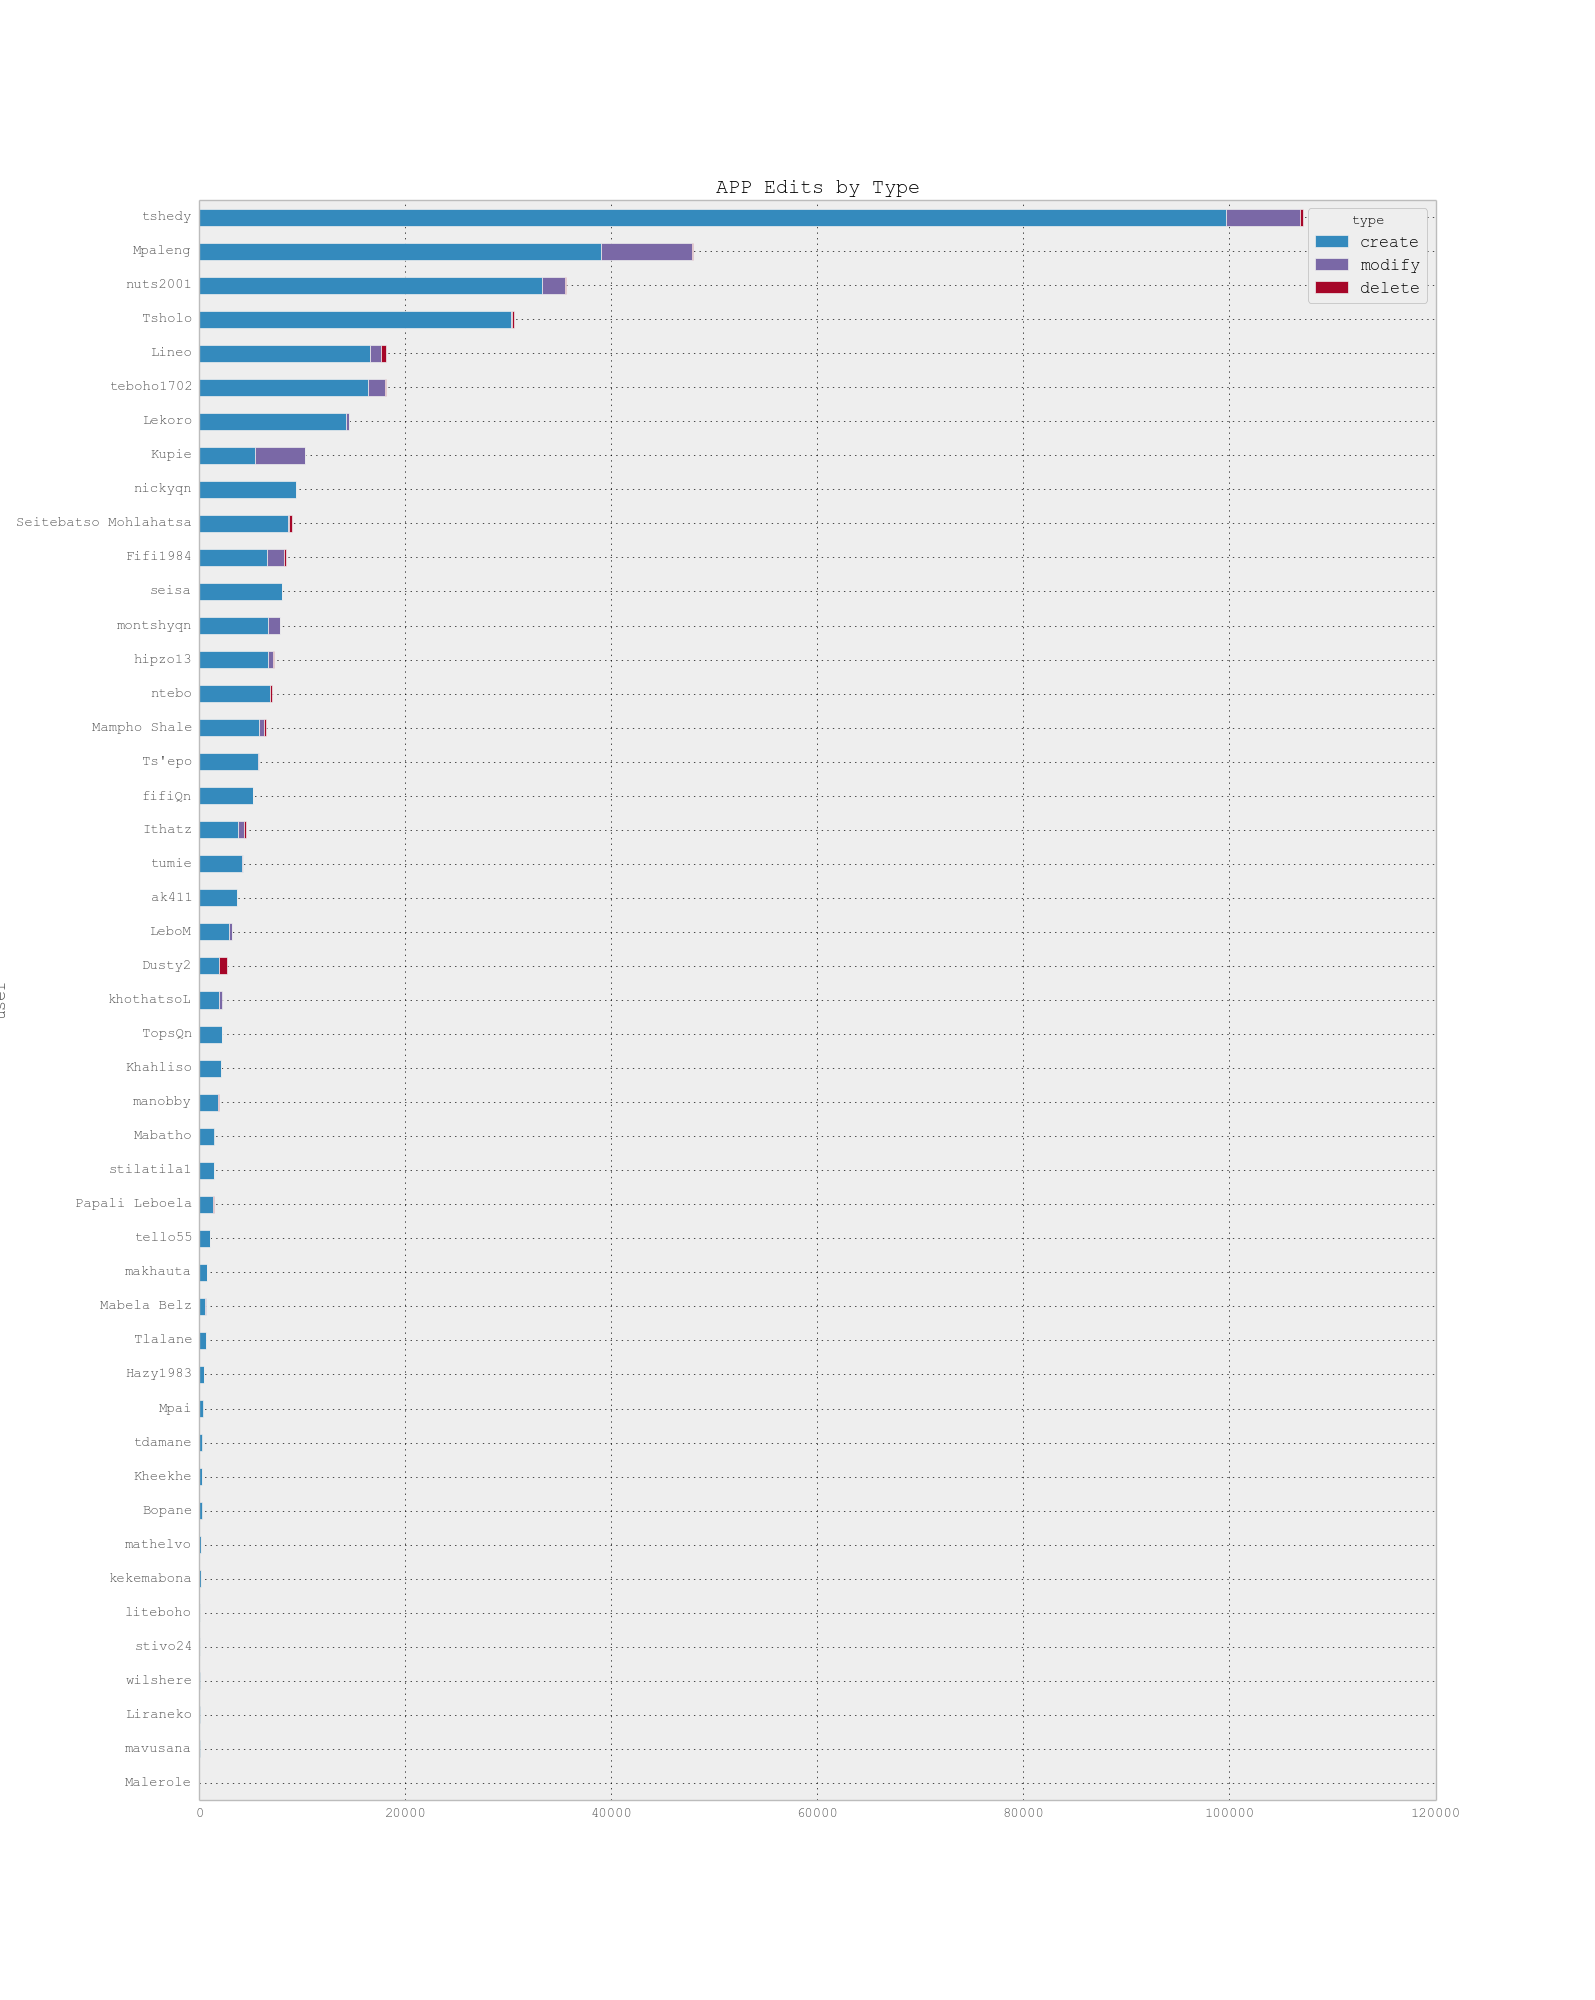
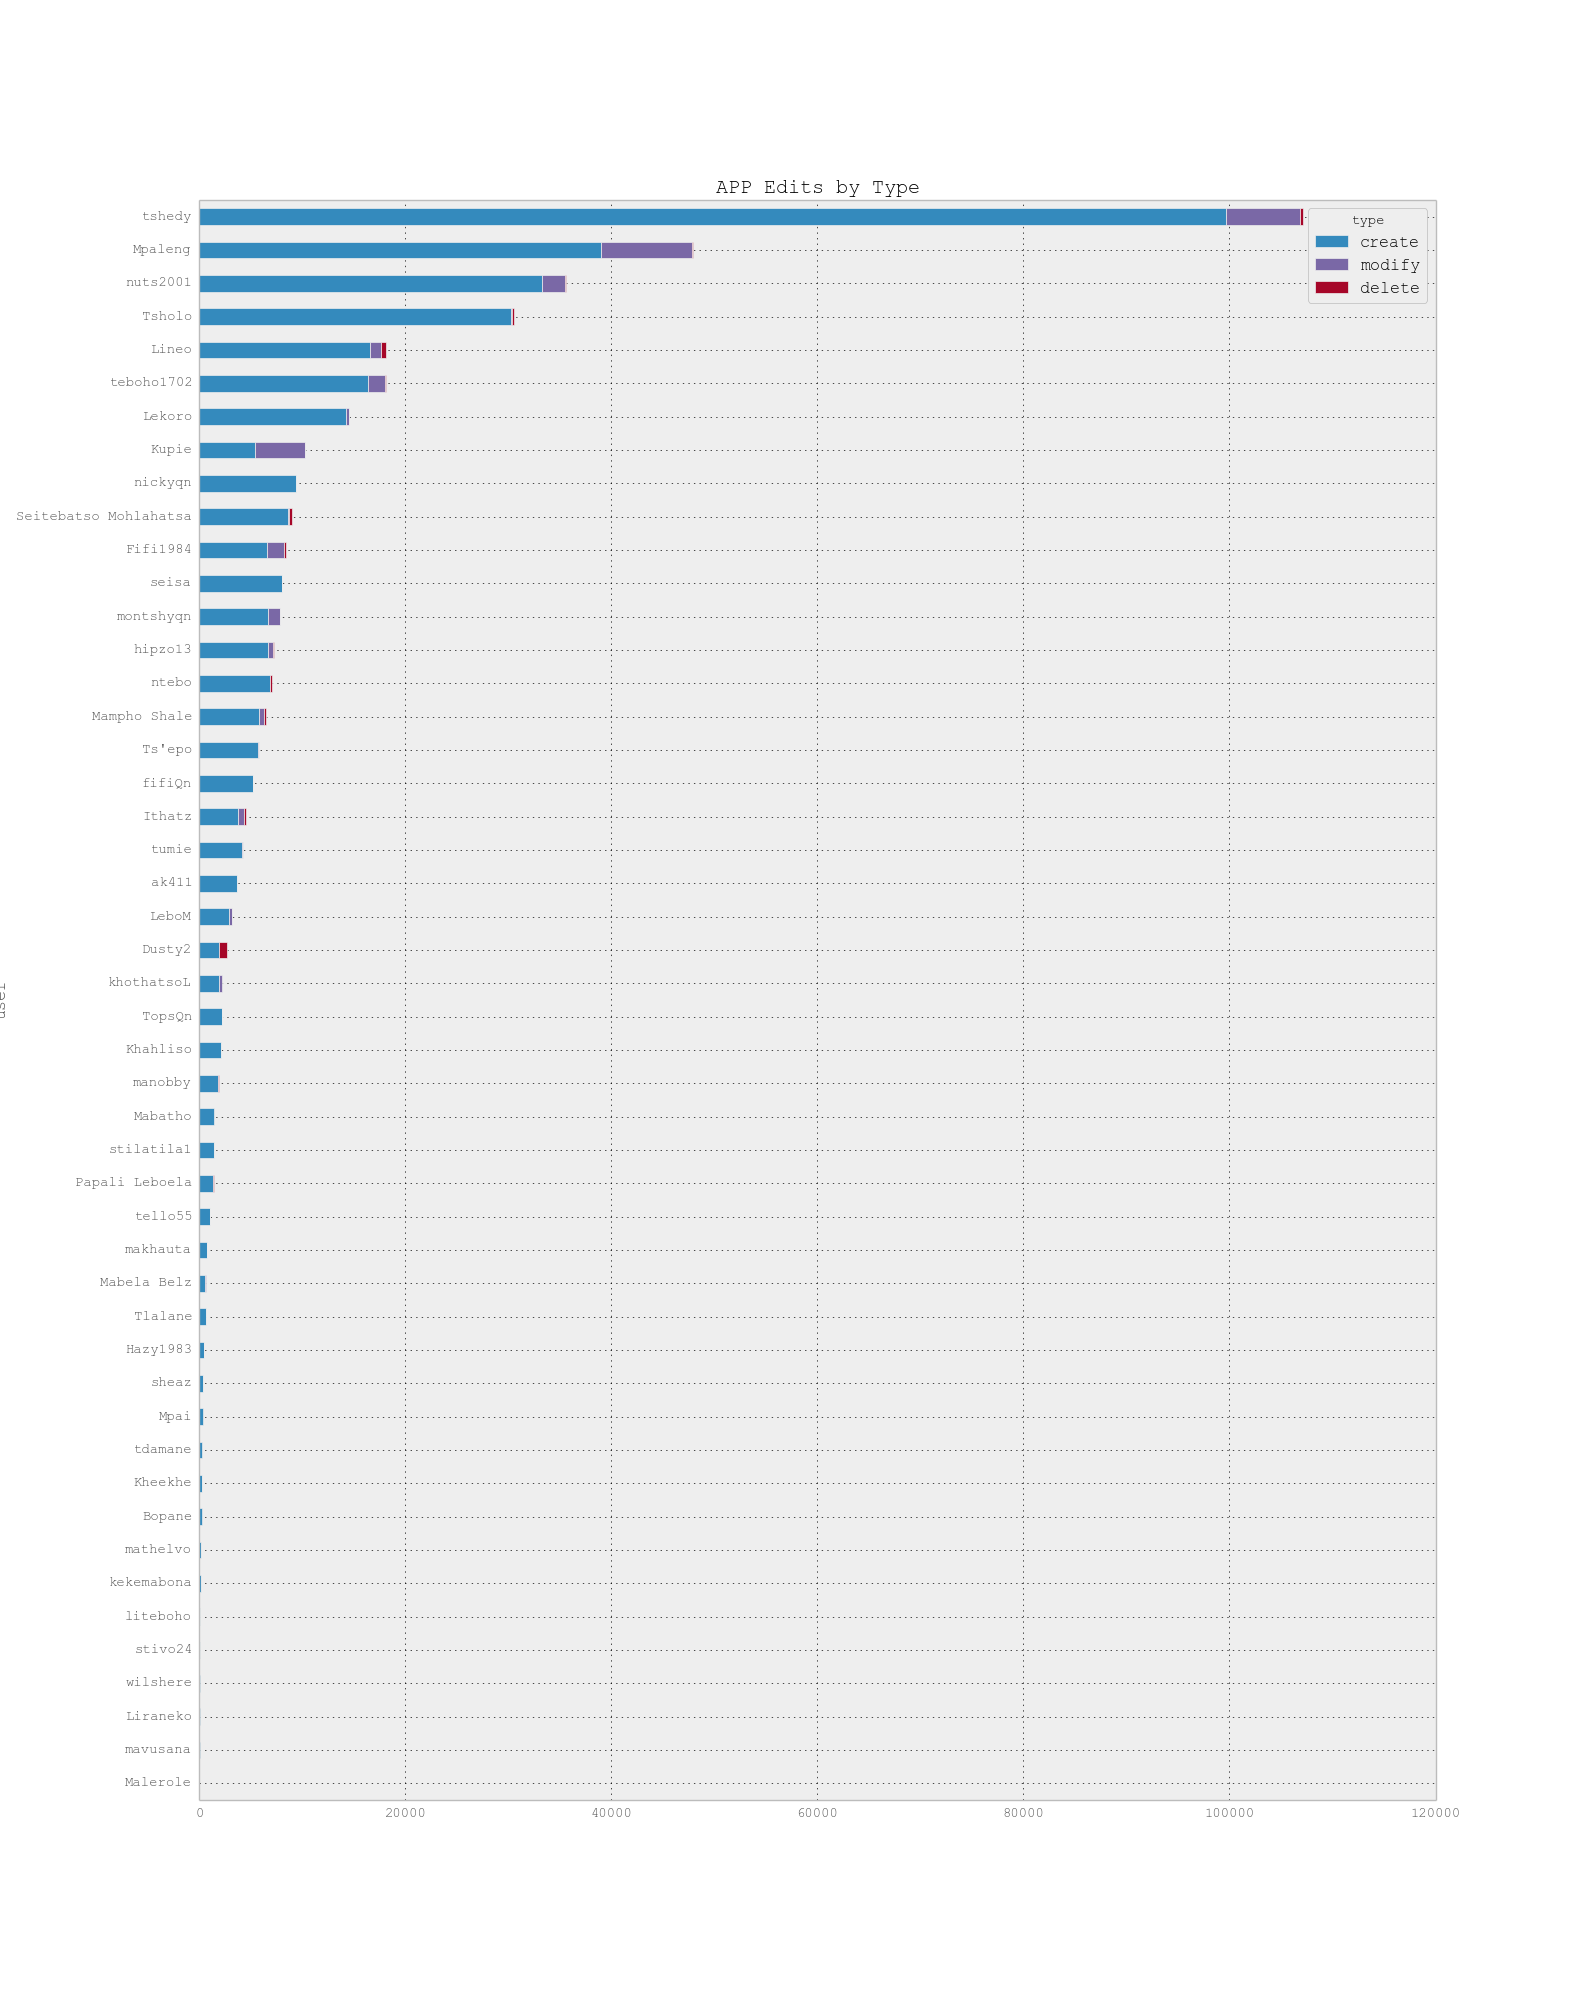
update stats

Changed region(s): [[0.0614, 0.124, 0.3379, 0.868]]

diff --git a/index.html b/index.html
@@ -348,6 +348,14 @@
     </tr>
     <tr>
       <th>35</th>
+      <td>sheaz</td>
+      <td>397</td>
+      <td>0</td>
+      <td>1</td>
+      <td>398</td>
+    </tr>
+    <tr>
+      <th>36</th>
       <td>Mpai</td>
       <td>349</td>
       <td>0</td>
@@ -355,7 +363,7 @@
       <td>349</td>
     </tr>
     <tr>
-      <th>36</th>
+      <th>37</th>
       <td>tdamane</td>
       <td>301</td>
       <td>0</td>
@@ -363,7 +371,7 @@
       <td>301</td>
     </tr>
     <tr>
-      <th>37</th>
+      <th>38</th>
       <td>Kheekhe</td>
       <td>290</td>
       <td>3</td>
@@ -371,7 +379,7 @@
       <td>293</td>
     </tr>
     <tr>
-      <th>38</th>
+      <th>39</th>
       <td>Bopane</td>
       <td>287</td>
       <td>0</td>
@@ -379,7 +387,7 @@
       <td>287</td>
     </tr>
     <tr>
-      <th>39</th>
+      <th>40</th>
       <td>mathelvo</td>
       <td>181</td>
       <td>0</td>
@@ -387,7 +395,7 @@
       <td>186</td>
     </tr>
     <tr>
-      <th>40</th>
+      <th>41</th>
       <td>kekemabona</td>
       <td>171</td>
       <td>0</td>
@@ -395,7 +403,7 @@
       <td>182</td>
     </tr>
     <tr>
-      <th>41</th>
+      <th>42</th>
       <td>liteboho</td>
       <td>95</td>
       <td>5</td>
@@ -403,7 +411,7 @@
       <td>100</td>
     </tr>
     <tr>
-      <th>42</th>
+      <th>43</th>
       <td>stivo24</td>
       <td>74</td>
       <td>0</td>
@@ -411,7 +419,7 @@
       <td>75</td>
     </tr>
     <tr>
-      <th>43</th>
+      <th>44</th>
       <td>wilshere</td>
       <td>73</td>
       <td>0</td>
@@ -419,7 +427,7 @@
       <td>73</td>
     </tr>
     <tr>
-      <th>44</th>
+      <th>45</th>
       <td>Liraneko</td>
       <td>38</td>
       <td>0</td>
@@ -427,7 +435,7 @@
       <td>38</td>
     </tr>
     <tr>
-      <th>45</th>
+      <th>46</th>
       <td>mavusana</td>
       <td>21</td>
       <td>0</td>
@@ -435,7 +443,7 @@
       <td>21</td>
     </tr>
     <tr>
-      <th>46</th>
+      <th>47</th>
       <td>Malerole</td>
       <td>0</td>
       <td>4</td>

diff --git a/get_monthly_stats.py b/get_monthly_stats.py
@@ -46,6 +46,8 @@ apps = apus.username[apus.is_app == 'Y']
 print("Returning monthly stats for %s Assistant Planners" % len(apps))
 les_apps = lesa[lesa.user.isin(apps.values)]
 
+
+
 #results = les.groupby(['user']).changeset.nunique().unstack()
 if len(les_apps) > 0:
 	# get monthly count of unique changesets
@@ -86,7 +88,14 @@ if len(les_apps) > 0:
 	ap_us.sort('total_edits')[['create', 'modify', 'delete']].plot(kind='barh', stacked=True, title="APP Edits by Type", figsize=(20,20)).get_figure().savefig('app_edits_by_type.png')
 	ap_us.sort('total_edits', ascending=False).to_csv("app_total_edits_by_type.csv")
 
-	
+	# Join userdata to districts to output district rankings.
+	dis = pd.read_csv('data/lesotho/app_dnames.csv')
+	dis.set_index('uname', inplace=True) # set to uname
+	test = ap_us.join(dis).reset_index()
+	test[pd.isnull(test.District)]
+	df2 = test.groupby(['District']).sum().sort('total_edits', ascending=False)
+	df2.reset_index().to_csv('csv/district_rannking.csv', index=False)
+
 	t = datetime.datetime.now()
 	name = ("Users Edits up to  %s-%s-%s" % (t.day, t.month, t.year))
 	ap_us.sort('total_edits', ascending=True)[['create', 'delete', 'modify']].iplot(filename="Lesotho Users Edits", title=name, xTitle='Edit Count', kind='barh', barmode='stack', margin=(200,50))
